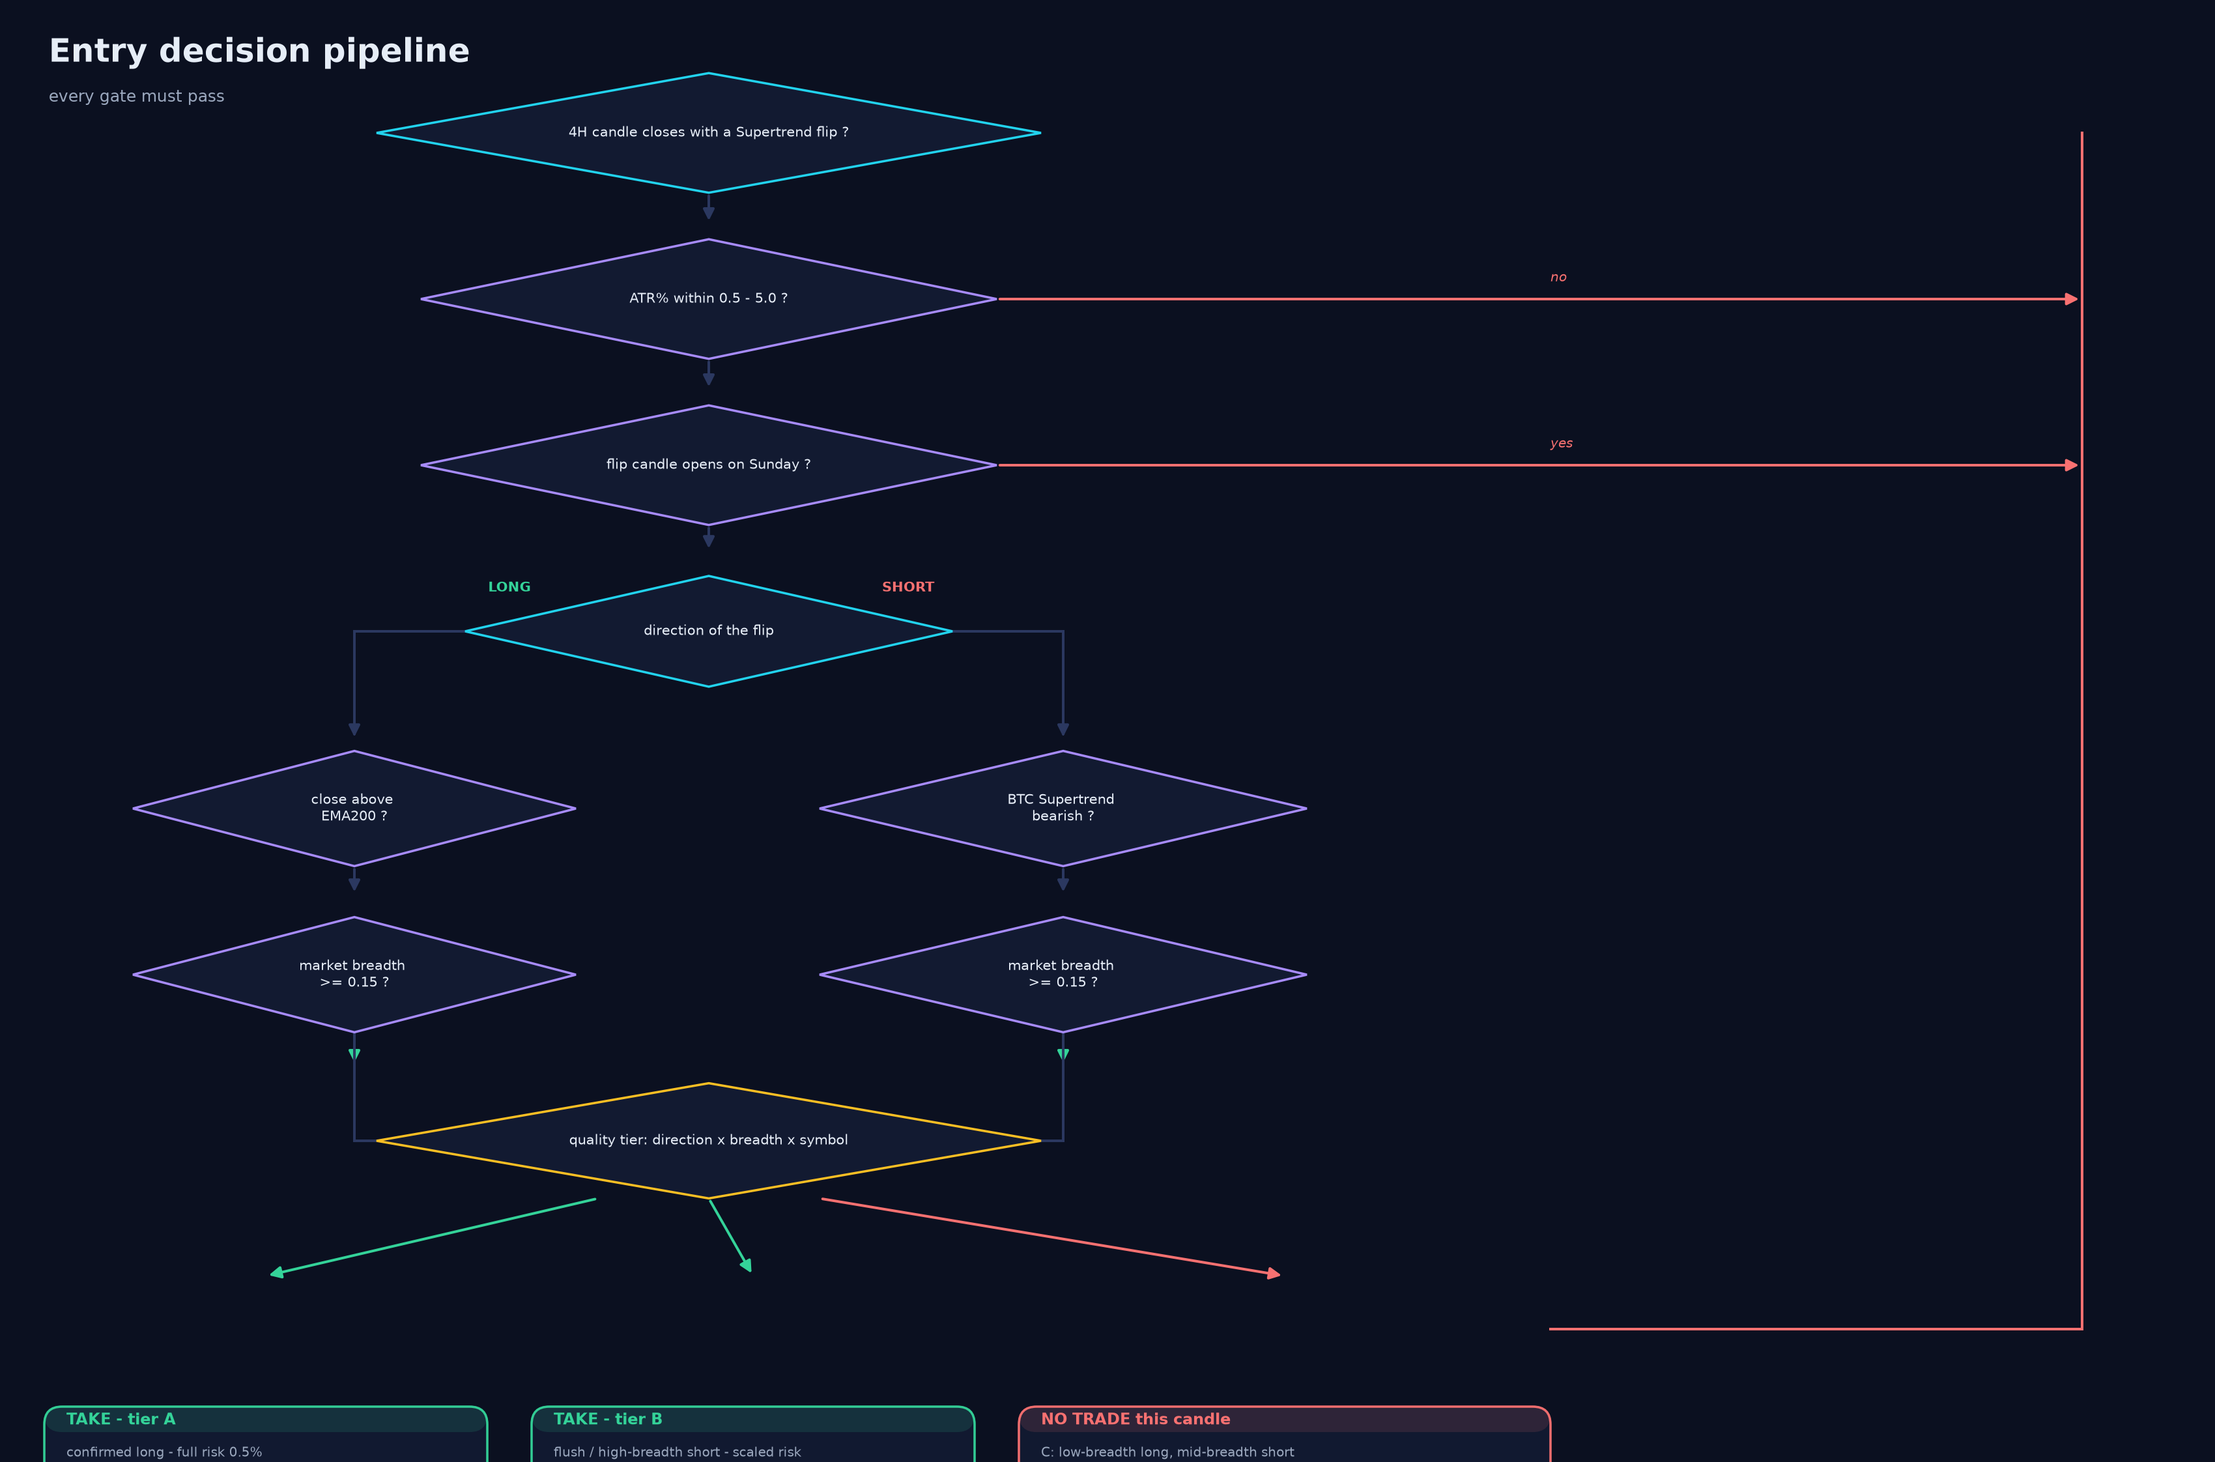
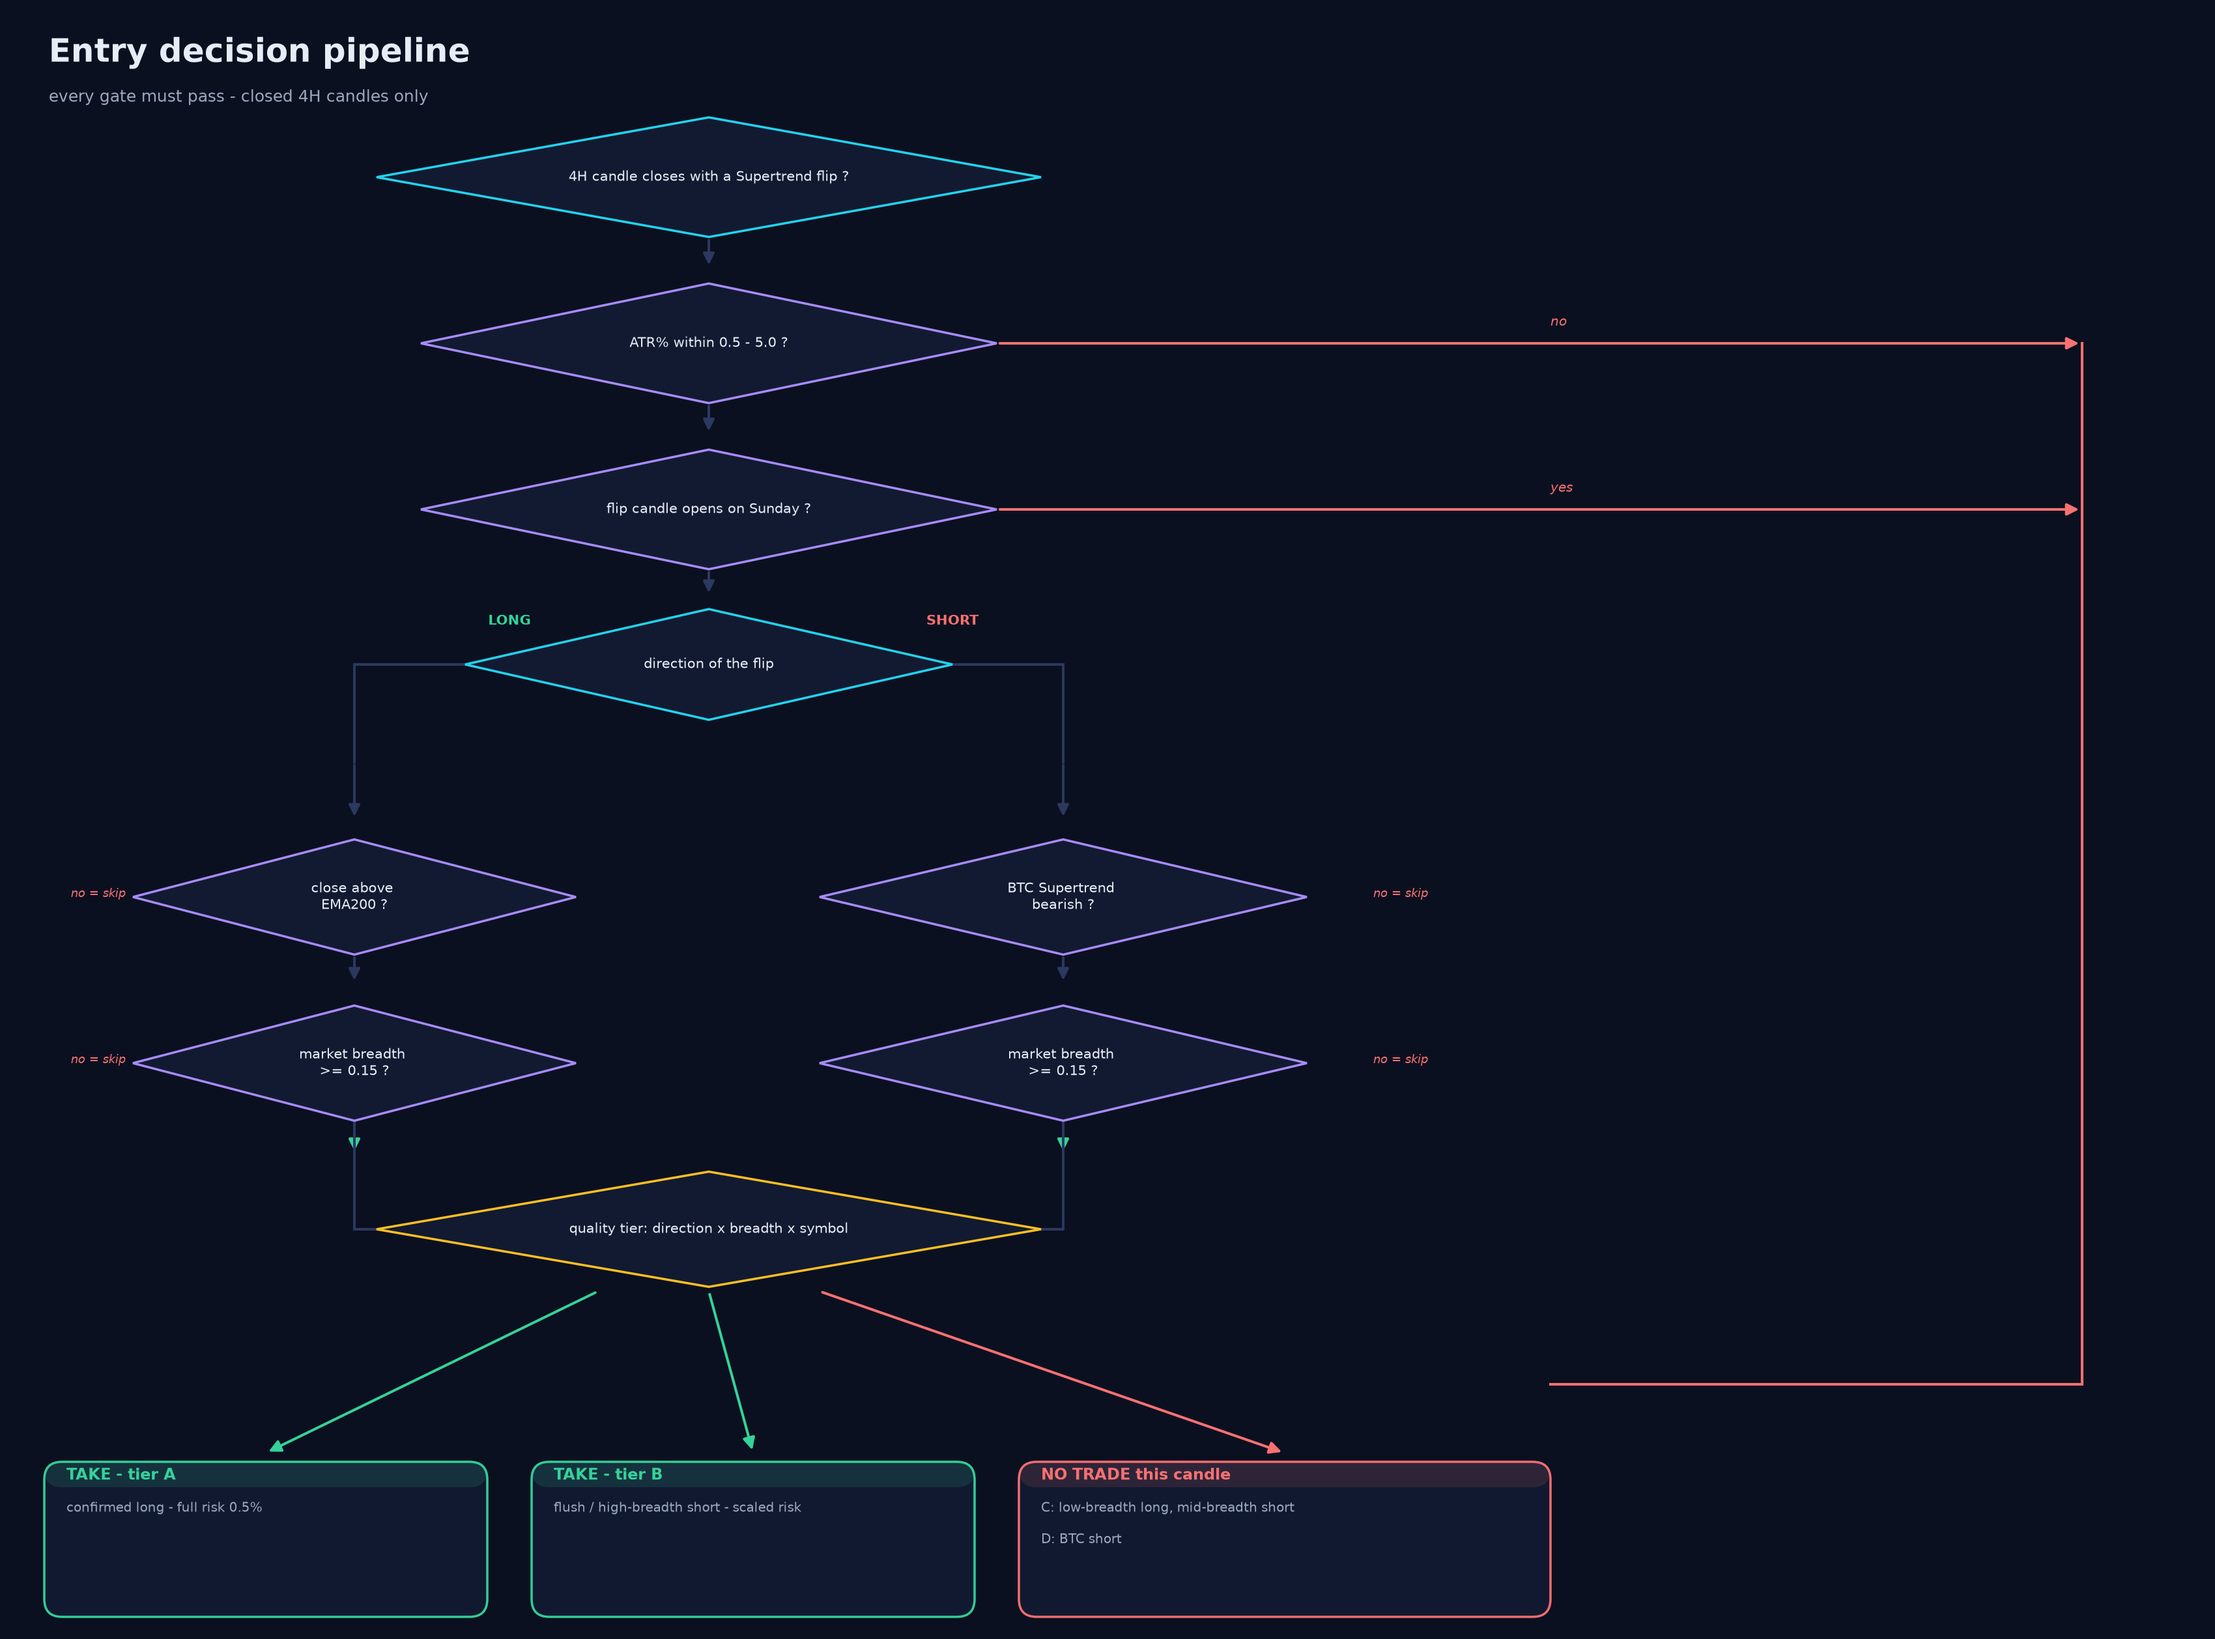
docs: fix diagram connectors and layout (pipeline/lifecycle)

diff --git a/docs/generate_diagrams.py b/docs/generate_diagrams.py
@@ -185,9 +185,9 @@ print("architecture.png done")
 
 # ── 2. ENTRY PIPELINE ────────────────────────────────────────────────────
 
-PH = 66
+PH = 74
 fig, ax = new_fig("Entry decision pipeline",
-                  "every gate must pass",
+                  "every gate must pass - closed 4H candles only",
                   canvas_h=PH)
 
 CX = 32
@@ -197,50 +197,54 @@ def gate(cx, cy, text, accent=VI, w=26, h=5.4):
     diamond(ax, cx, cy, w, h, text, accent)
 
 NL = chr(10)
-gate(CX, 60, "4H candle closes with a Supertrend flip ?", CY, w=30)
-varrow(ax, CX, 57.3, 55.9)
-gate(CX, 52.5, "ATR% within 0.5 - 5.0 ?")
-harrow(ax, CX + 13, RAIL, 52.5, RD)
-ax.text(70, 53.3, "no", color=RD, fontsize=8.5, style="italic")
-varrow(ax, CX, 49.8, 48.4)
-gate(CX, 45, "flip candle opens on Sunday ?")
-harrow(ax, CX + 13, RAIL, 45, RD)
-ax.text(70, 45.8, "yes", color=RD, fontsize=8.5, style="italic")
-varrow(ax, CX, 42.3, 41.1)
-gate(CX, 37.5, "direction of the flip", CY, w=22, h=5)
+gate(CX, 66, "4H candle closes with a Supertrend flip ?", CY, w=30)
+varrow(ax, CX, 63.3, 61.9)
+gate(CX, 58.5, "ATR% within 0.5 - 5.0 ?")
+harrow(ax, CX + 13, RAIL, 58.5, RD)
+ax.text(70, 59.3, "no", color=RD, fontsize=8.5, style="italic")
+varrow(ax, CX, 55.8, 54.4)
+gate(CX, 51, "flip candle opens on Sunday ?")
+harrow(ax, CX + 13, RAIL, 51, RD)
+ax.text(70, 51.8, "yes", color=RD, fontsize=8.5, style="italic")
+varrow(ax, CX, 48.3, 47.1)
+gate(CX, 44, "direction of the flip", CY, w=22, h=5)
 
-line(ax, CX - 11, 37.5, 16, 37.5); line(ax, 16, 37.5, 16, 33.1)
-varrow(ax, 16, 33.1, 32.6)
-ax.text(23, 39.3, "LONG", color=EM, fontsize=9, fontweight="bold", ha="center")
-line(ax, CX + 11, 37.5, 48, 37.5); line(ax, 48, 37.5, 48, 33.1)
-varrow(ax, 48, 33.1, 32.6)
-ax.text(41, 39.3, "SHORT", color=RD, fontsize=9, fontweight="bold", ha="center")
+line(ax, CX - 11, 44, 16, 44); line(ax, 16, 44, 16, 39.6)
+varrow(ax, 16, 39.6, 37)
+ax.text(23, 45.8, "LONG", color=EM, fontsize=9, fontweight="bold", ha="center")
+line(ax, CX + 11, 44, 48, 44); line(ax, 48, 44, 48, 39.6)
+varrow(ax, 48, 39.6, 37)
+ax.text(43, 45.8, "SHORT", color=RD, fontsize=9, fontweight="bold", ha="center")
 
-gate(16, 29.5, "close above " + NL + "EMA200 ?", w=20, h=5.2)
-gate(48, 29.5, "BTC Supertrend " + NL + "bearish ?", w=22, h=5.2)
-varrow(ax, 16, 26.9, 25.6)
-varrow(ax, 48, 26.9, 25.6)
-gate(16, 22, "market breadth " + NL + ">= 0.15 ?", w=20, h=5.2)
-gate(48, 22, "market breadth " + NL + ">= 0.15 ?", w=22, h=5.2)
-varrow(ax, 16, 19.3, 17.9, EM)
-varrow(ax, 48, 19.3, 17.9, EM)
+gate(16, 33.5, "close above " + NL + "EMA200 ?", w=20, h=5.2)
+gate(48, 33.5, "BTC Supertrend " + NL + "bearish ?", w=22, h=5.2)
+ax.text(3.2, 33.5, "no = skip", color=RD, fontsize=7.6, style="italic")
+ax.text(62, 33.5, "no = skip", color=RD, fontsize=7.6, style="italic")
+varrow(ax, 16, 30.9, 29.6)
+varrow(ax, 48, 30.9, 29.6)
+gate(16, 26, "market breadth " + NL + ">= 0.15 ?", w=20, h=5.2)
+gate(48, 26, "market breadth " + NL + ">= 0.15 ?", w=22, h=5.2)
+ax.text(3.2, 26, "no = skip", color=RD, fontsize=7.6, style="italic")
+ax.text(62, 26, "no = skip", color=RD, fontsize=7.6, style="italic")
+varrow(ax, 16, 23.3, 21.9, EM)
+varrow(ax, 48, 23.3, 21.9, EM)
 
-gate(CX, 14.5, "quality tier: direction x breadth x symbol", AM, w=30, h=5.2)
-line(ax, 16, 19.3, 16, 14.5); line(ax, 16, 14.5, 17, 14.5)
-line(ax, 48, 19.3, 48, 14.5); line(ax, 48, 14.5, 47, 14.5)
+gate(CX, 18.5, "quality tier: direction x breadth x symbol", AM, w=30, h=5.2)
+line(ax, 16, 23.3, 16, 18.5); line(ax, 16, 18.5, 17, 18.5)
+line(ax, 48, 23.3, 48, 18.5); line(ax, 48, 18.5, 47, 18.5)
 
-box(ax, 2, 2.5, 20, 7, "TAKE - tier A",
+box(ax, 2, 8, 20, 7, "TAKE - tier A",
     ["confirmed long - full risk 0.5%"], EM)
-box(ax, 24, 2.5, 20, 7, "TAKE - tier B",
+box(ax, 24, 8, 20, 7, "TAKE - tier B",
     ["flush / high-breadth short - scaled risk"], EM)
-box(ax, 46, 2.5, 24, 7, "NO TRADE this candle",
+box(ax, 46, 8, 24, 7, "NO TRADE this candle",
     ["C: low-breadth long, mid-breadth short", "D: BTC short"], RD)
-arrow(ax, CX - 5, 11.9, 12, 8.4, EM)
-arrow(ax, CX, 11.9, 34, 8.4, EM)
-arrow(ax, CX + 5, 11.9, 58, 8.4, RD)
+arrow(ax, CX - 5, 15.7, 12, 8.4, EM)
+arrow(ax, CX, 15.7, 34, 8.4, EM)
+arrow(ax, CX + 5, 15.7, 58, 8.4, RD)
 
-line(ax, RAIL, 60, RAIL, 6, RD)
-line(ax, RAIL, 6, 70, 6, RD)
+line(ax, RAIL, 58.5, RAIL, 11.5, RD)
+line(ax, RAIL, 11.5, 70, 11.5, RD)
 
 fig.savefig("docs/pipeline.png", dpi=170, facecolor=BG)
 plt.close(fig)
@@ -265,14 +269,14 @@ box(ax, 74, 28, 24, 7.2, "EXIT - opposite flip",
 box(ax, 74, 16, 24, 7.2, "EXIT - time stop",
     ["profit banked before decay", "avg +0.47R - 85% win"], EM)
 
-arrow(ax, 30, 36, 36, 36, CY)
-arrow(ax, 66, 37.5, 74, 36.5, RD)
-arrow(ax, 66, 34, 74, 24.6, AM, rad=0.12)
-arrow(ax, 66, 32, 74, 12.4, EM, rad=-0.15)
+arrow(ax, 30, 28, 36, 28, CY)
+arrow(ax, 66, 30, 74, 36.4, RD, rad=0.12)
+arrow(ax, 66, 27.5, 74, 24.6, AM)
+arrow(ax, 66, 25.5, 74, 12.4, EM, rad=-0.12)
 
-line(ax, 51, 31.8, 51, 10.5, VI)
+line(ax, 51, 23.6, 51, 10.5, VI)
 line(ax, 51, 10.5, 17, 10.5, VI)
-arrow(ax, 17, 10.5, 17, 31.8, CY)
+arrow(ax, 17, 10.5, 17, 23.6, CY)
 ax.text(34, 8.9, "no exit -> trail ratchets -> repeat next candle",
         color=SUB, fontsize=9.5, style="italic", ha="center")
 
